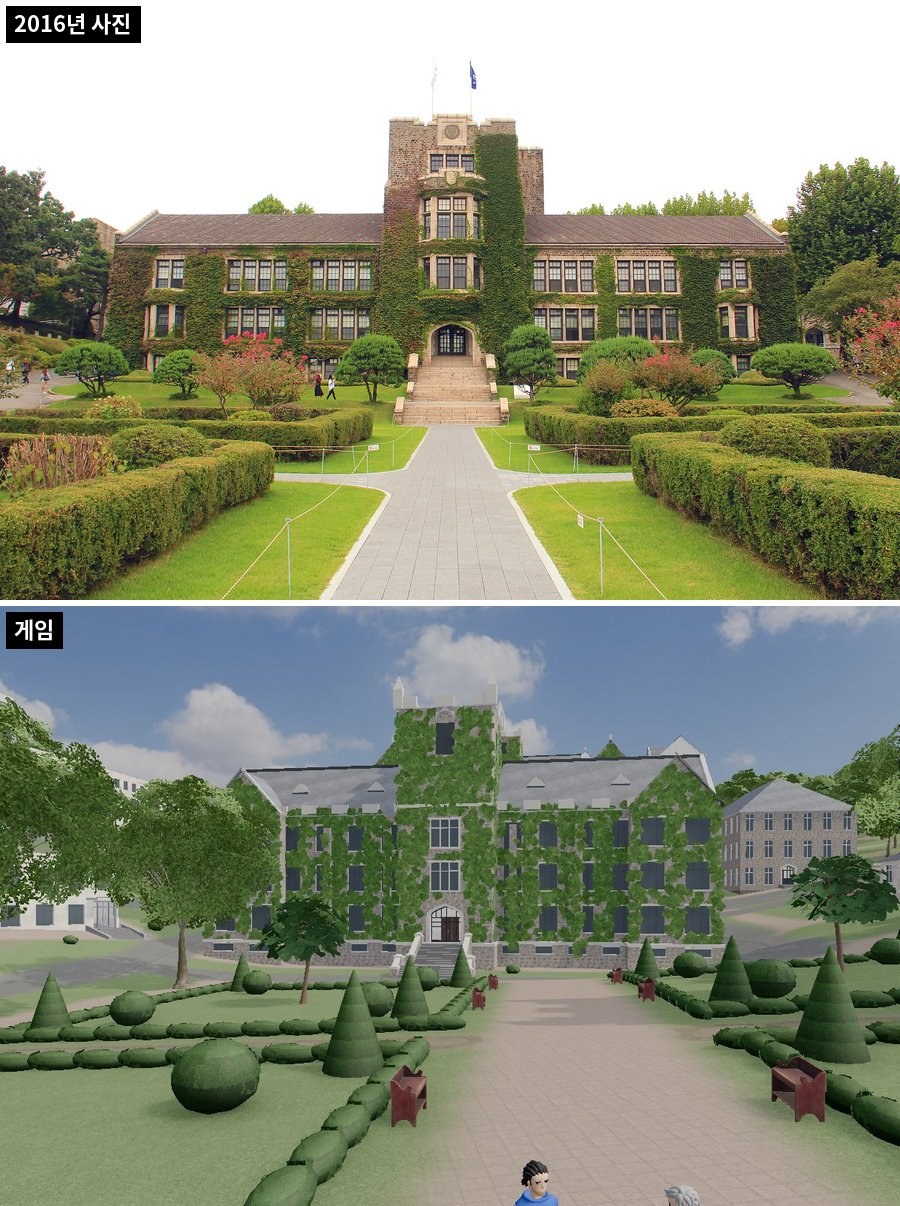
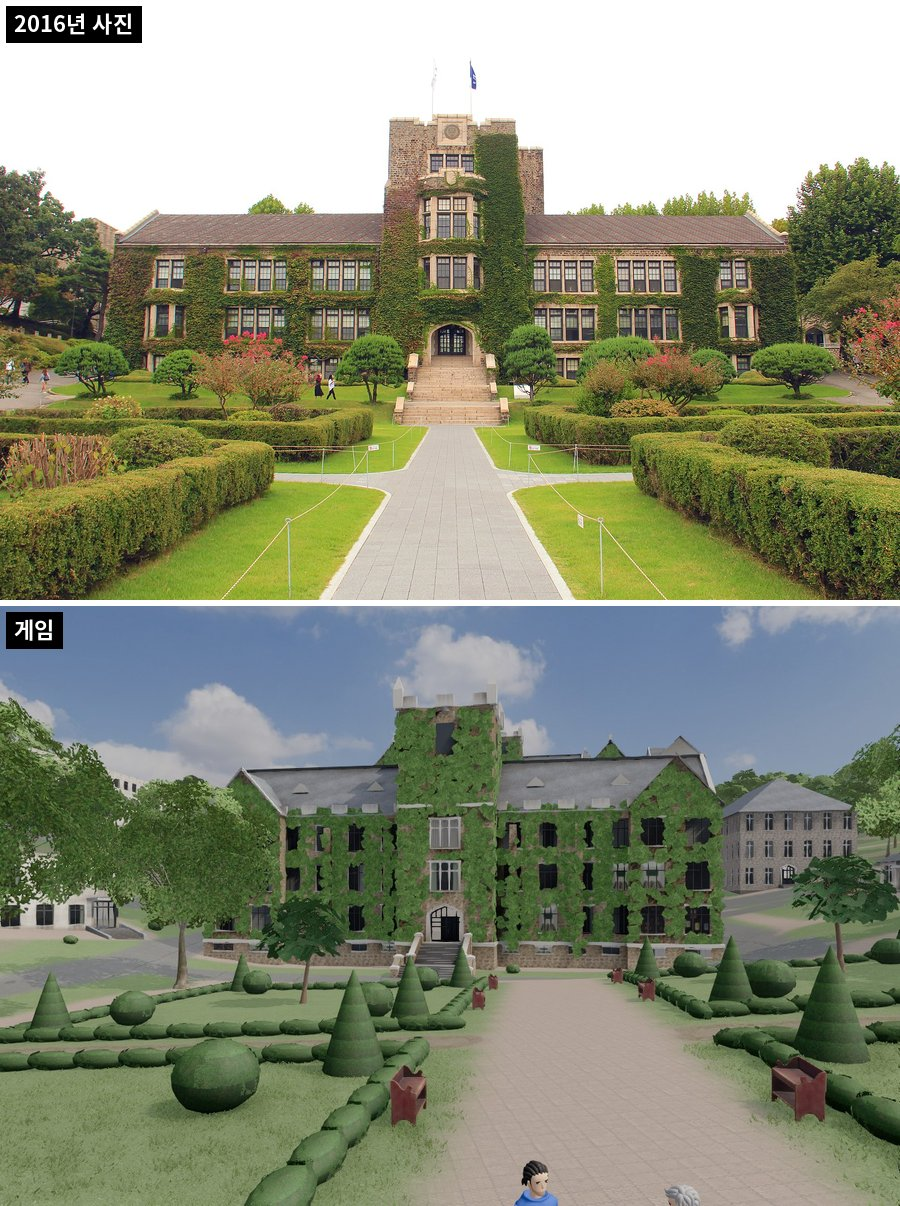
옛 석조관 고증 기록과 사진 비교 캡처를 새 모델 · 재질대로
- 고증 3.1: stone_rubble_warm의 목표 반사율과 읽은 사진, 3.5: 스팀슨관 ·
  아펜젤러관의 높이 · 지붕 · 창 · 현관부 · 내닫이 칸 · 굴뚝, 5: 다른 점에서
  세 건물을 빼고 사진 없는 뒤쪽 · 박공벽 창을 가정으로
- README 「사진과 비교」의 세 건물을 6c99143과 같은 카메라로 다시 찍고
  꼬리말을 뺌. 랜드마크 목록을 고침
- 새 소식 캡처 82 ~ 84 (스팀슨관 · 아펜젤러관 · 벽 색 전/후)

diff --git a/README.md b/README.md
@@ -22,8 +22,8 @@
 | ![백양로: 1997년 항공 사진(위)과 같은 카메라의 게임(아래)](docs/reference/baekyangro_1997_vs_game.jpg)<br>**백양로** · 1997년 항공 사진과 같은 카메라 | ![캠퍼스 서쪽: 1995년 항공 사진(위)과 게임(아래)](docs/screenshots/51_aerial_1995_vs_game.jpg)<br>**캠퍼스 서쪽** · 1995년 항공 사진 |
 | ![중앙도서관: 1997년 사진(위)과 게임(아래)](docs/screenshots/63_cmp_library.jpg)<br>**중앙도서관** · 1997년 | ![학생회관 외벽: 2009년 사진(위)과 게임(아래)](docs/screenshots/61_union_facade.jpg)<br>**학생회관** 외벽 · 2009년 |
 | ![백주년기념관 박물관 입구: 1996년 사진(위)과 게임(아래)](docs/screenshots/52_museum_entrance.jpg)<br>**백주년기념관** 박물관 입구 · 1996년 | ![대강당: 2009년 사진(위)과 게임(아래)](docs/screenshots/64_cmp_auditorium.jpg)<br>**대강당** · 2009년 |
-| ![언더우드관: 2016년 사진(위)과 게임(아래)](docs/screenshots/65_cmp_underwood.jpg)<br>**언더우드관** · 2016년 | ![스팀슨관: 2016년 사진(위)과 게임(아래)](docs/screenshots/66_cmp_stimson.jpg)<br>**스팀슨관** · 2016년. 게임의 탑 · 도머는 사진과 다름 ([#29](https://github.com/yonsei-reunion/campus-1997/issues/29)) |
-| ![아펜젤러관: 2016년 사진(위)과 게임(아래)](docs/screenshots/67_cmp_appenzeller.jpg)<br>**아펜젤러관** · 2016년. 게임은 아직 언더우드관처럼 탑 있는 3층 ([#27](https://github.com/yonsei-reunion/campus-1997/issues/27)) | ![연희관: 2023년 사진(위)과 게임의 10월(아래)](docs/screenshots/68_cmp_yeonhui.jpg)<br>**연희관** · 2023년 가을 |
+| ![언더우드관: 2016년 사진(위)과 게임(아래)](docs/screenshots/65_cmp_underwood.jpg)<br>**언더우드관** · 2016년 | ![스팀슨관: 2016년 사진(위)과 게임(아래)](docs/screenshots/66_cmp_stimson.jpg)<br>**스팀슨관** · 2016년 |
+| ![아펜젤러관: 2016년 사진(위)과 게임(아래)](docs/screenshots/67_cmp_appenzeller.jpg)<br>**아펜젤러관** · 2016년 | ![연희관: 2023년 사진(위)과 게임의 10월(아래)](docs/screenshots/68_cmp_yeonhui.jpg)<br>**연희관** · 2023년 가을 |
 | ![대우관: 사진(위)과 게임(아래)](docs/screenshots/69_cmp_daewoo.jpg)<br>**대우관** (1996년 준공) | ![대우관 상뜰: 사진(위)과 게임(아래)](docs/screenshots/57_sang.jpg)<br>**대우관 상뜰** |
 | ![광복관 현관: 1996년 사진(위)과 게임(아래)](docs/screenshots/70_cmp_kwangbok.jpg)<br>**광복관** 현관 · 1996년 | ![과학관 앞 높은 계단: 1996년 사진(위)과 게임(아래)](docs/screenshots/54_science_stairs.jpg)<br>**과학관** 앞 계단 · 1996년 |
 | ![음악관 현관: 1996년 사진(위)과 게임(아래)](docs/screenshots/53_music_door.jpg)<br>**음악관** 현관 · 1996년 | ![빌링슬리관 현관: 1996년 사진(위)과 게임(아래)](docs/screenshots/71_cmp_billingsley.jpg)<br>**빌링슬리관** 현관 · 1996년. 게임의 현관 자리는 다름 ([#30](https://github.com/yonsei-reunion/campus-1997/issues/30)) |
@@ -94,7 +94,8 @@ PC 브라우저에서 모바일 화면을 시험하려면 주소 끝에 `?touch`
   - 중앙도서관: 높은 석재 기둥과 얕은 세그먼트 아치, 두 단 화강석 기단 위 아케이드, 유리문 너머 불 켜진 로비
   - 학생회관: 필로티, 흰 프리캐스트 콘크리트 판에 뾰족아치 창, 세로 현수막
   - 백주년기념관: 기단 위의 큰 원통과 무대 탑, 백양로 쪽의 어두운 현관과 남서쪽 앞 상자, 광혜원 쪽 박물관 입구
-  - 언더우드관 · 스팀슨관 · 아펜젤러관 · 연희관: 석조 고딕, 계절마다 색이 바뀌는 담쟁이, 튜더 아치 안 철제 유리문 현관과 화강석 계단, 앞 정원
+  - 언더우드관 · 스팀슨관 · 아펜젤러관 · 연희관: 갈색 잡석 벽, 계절마다 색이 바뀌는 담쟁이, 튜더 아치 안 철제 유리문 현관과 화강석 계단, 앞 정원.
+    언더우드관 · 연희관은 탑 선 석조 고딕, 스팀슨관 · 아펜젤러관은 탑 없는 2층에 세 개씩 묶은 돌 문설주 창(스팀슨관은 가운데 현관부와 굴뚝, 아펜젤러관은 양끝의 꺾인 내닫이 칸)
   - 대우관 · 별관 (1996): 흰 석조 고딕, 석축 아래 아치 현관과 그 위 테라스, 상뜰, 뒤쪽 계단탑과 주차장
   - 대강당: 화강석 박공 정면, 양끝 탑, 열 단 위의 로비 현관
   - 제1공학관(1997년 크기), 광복관(모임지붕 ㄱ자와 화강석 현관), 용재관(1957 – 2013), 루스채플, 광혜원(팔작지붕 한옥), 옛 노천극장, 정문(延世大學校 현판)
